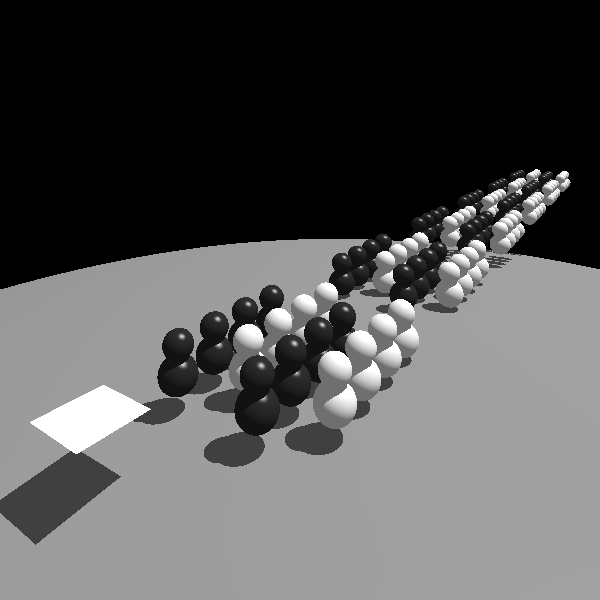
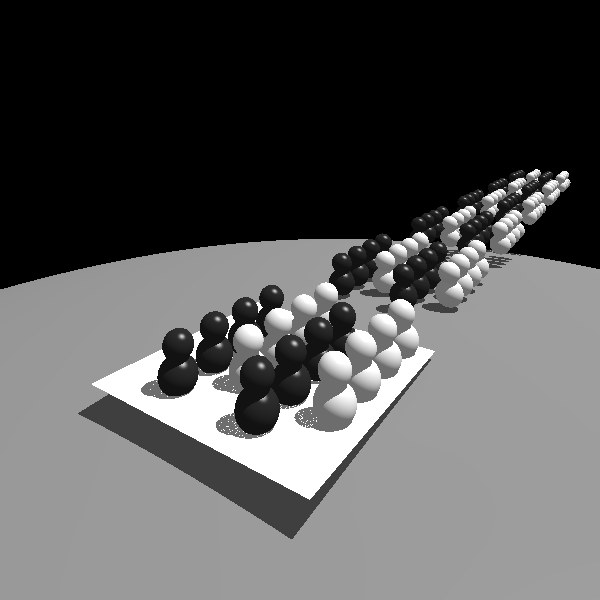
a04-1

Changed region(s): [[0.0, 0.57, 0.72, 0.9], [0.3, 0.54, 0.36, 0.6], [0.36, 0.51, 0.39, 0.54]]

diff --git a/src/cgg/A04.java b/src/cgg/A04.java
@@ -62,8 +62,8 @@ public class A04 {
         }
 
         // 创建立方体
-        Quader box = new Quader(6, new Color(0.9, 0.1, 0.1)); // 6x6x6正方体，红色
-        Mat44 boxTrans = Mat44.translate(-5, 3, -62); // Y=3：底部贴地面（6/2=3）             
+        Quader box = new Quader(24, new Color(0.9, 0.1, 0.1)); // 6x6x6正方体，红色
+        Mat44 boxTrans = Mat44.translate(-1, 0.6, -54); // Y=3：底部贴地面（6/2=3）             
         box.setTransform(boxTrans);
         scene.add(box);
 
